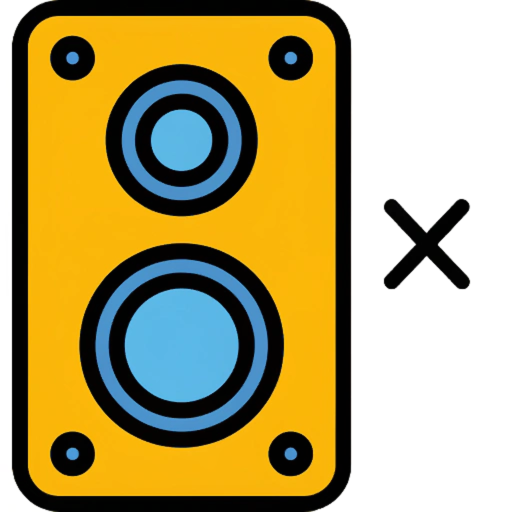
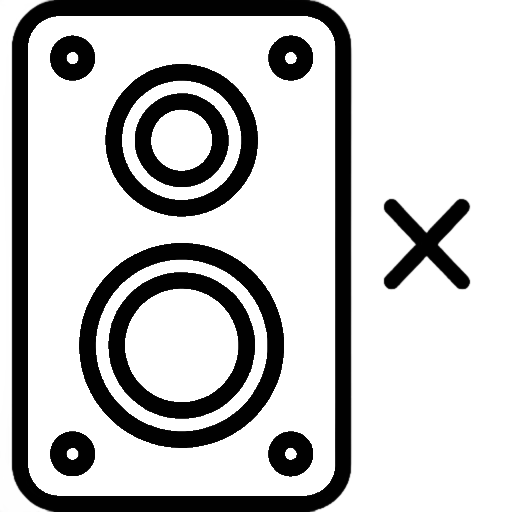
Change bg color and sound button

diff --git a/src/styles.css b/src/styles.css
@@ -183,13 +183,6 @@ body {
   font-weight: 100;
   flex-direction: column;
   color: white;
-}
-
-#container {
-  /* background-image: url("img/back.jpg"); */
-  background-repeat: no-repeat;
-  background-attachment: fixed;
-  background-size: cover;
   background-color: var(--backgound-color-scheme);
 }
 
@@ -263,21 +256,21 @@ header {
 
 #unmute {
   background-image: url(img/sound-on.png);
-  background-size: cover; 
+  background-size: cover;
   background-repeat: no-repeat;
-  background-position: center; 
+  background-position: center;
   width: 45px;
   height: 45px;
-  background-color: var(--opaque-background);  
+  background-color: var(--opaque-background);
   opacity: 0;
   pointer-events: none;
 }
 
 #mute {
   background-image: url(img/sound-off.png);
-  background-size: cover; 
+  background-size: cover;
   background-repeat: no-repeat;
-  background-position: center; 
+  background-position: center;
   width: 45px;
   height: 45px;
   background-color: var(--opaque-background);
@@ -293,6 +286,25 @@ header {
   position: fixed;
   top: 70px;
   right: 23px;
+}
+
+#unmute.visible {
+  animation: pulse 1s infinite;
+}
+
+@keyframes pulse {
+  0% {
+    transform: scale(1);
+    opacity: 1;
+  }
+  50% {
+    transform: scale(1.2);
+    opacity: 0.8;
+  }
+  100% {
+    transform: scale(1);
+    opacity: 1;
+  }
 }
 
 /* Menu */
